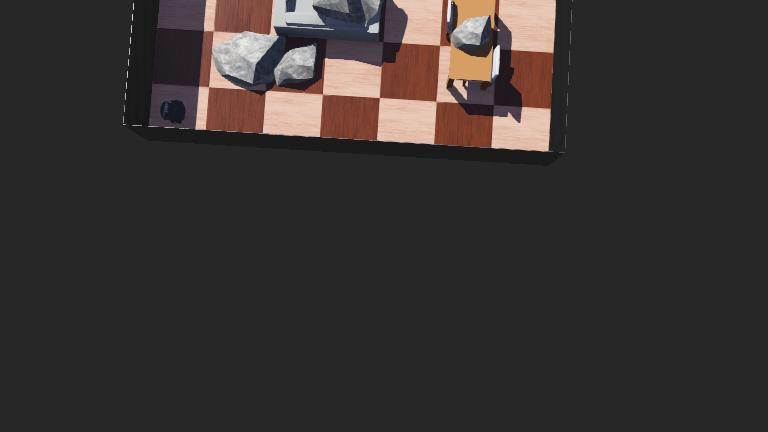
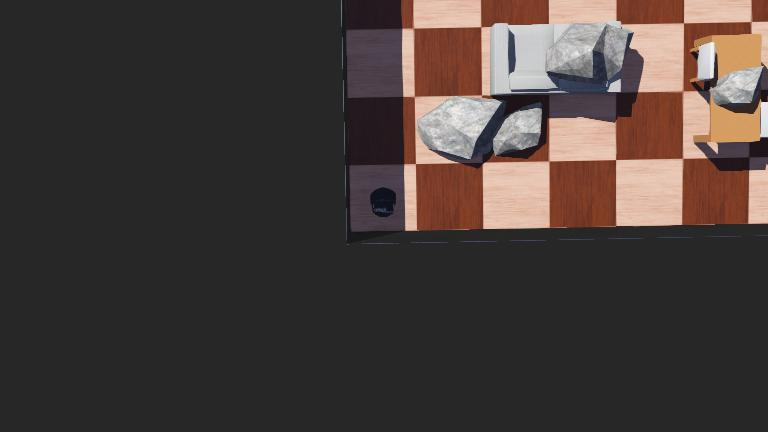
sistemazione ambiente e controller

diff --git a/Progetto/controllers/rescue_controller/rescue_controller.py b/Progetto/controllers/rescue_controller/rescue_controller.py
@@ -1,0 +1,43 @@
+"""rescue_controller controller."""
+
+# You may need to import some classes of the controller module. Ex:
+#  from controller import Robot, Motor, DistanceSensor
+from controller import Robot, DistanceSensor, Motor
+
+TIME_STEP = 64
+MAX_SPEED = 6.28
+
+# create the Robot instance.
+robot = Robot()
+
+leftMotor = robot.getDevice('left wheel')
+rightMotor = robot.getDevice('right wheel')
+leftMotor.setVelocity(0.5 * MAX_SPEED)
+rightMotor.setVelocity(0.5 * MAX_SPEED)
+
+leftMotor.setPosition(10.0)
+rightMotor.setPosition(10.0)
+
+# get the time step of the current world.
+timestep = int(robot.getBasicTimeStep())
+
+# You should insert a getDevice-like function in order to get the
+# instance of a device of the robot. Something like:
+#  motor = robot.getDevice('motorname')
+#  ds = robot.getDevice('dsname')
+#  ds.enable(timestep)
+
+# Main loop:
+# - perform simulation steps until Webots is stopping the controller
+while robot.step(timestep) != -1:
+    # Read the sensors:
+    # Enter here functions to read sensor data, like:
+    #  val = ds.getValue()
+
+    # Process sensor data here.
+
+    # Enter here functions to send actuator commands, like:
+    #  motor.setPosition(10.0)
+    pass
+
+# Enter here exit cleanup code.
